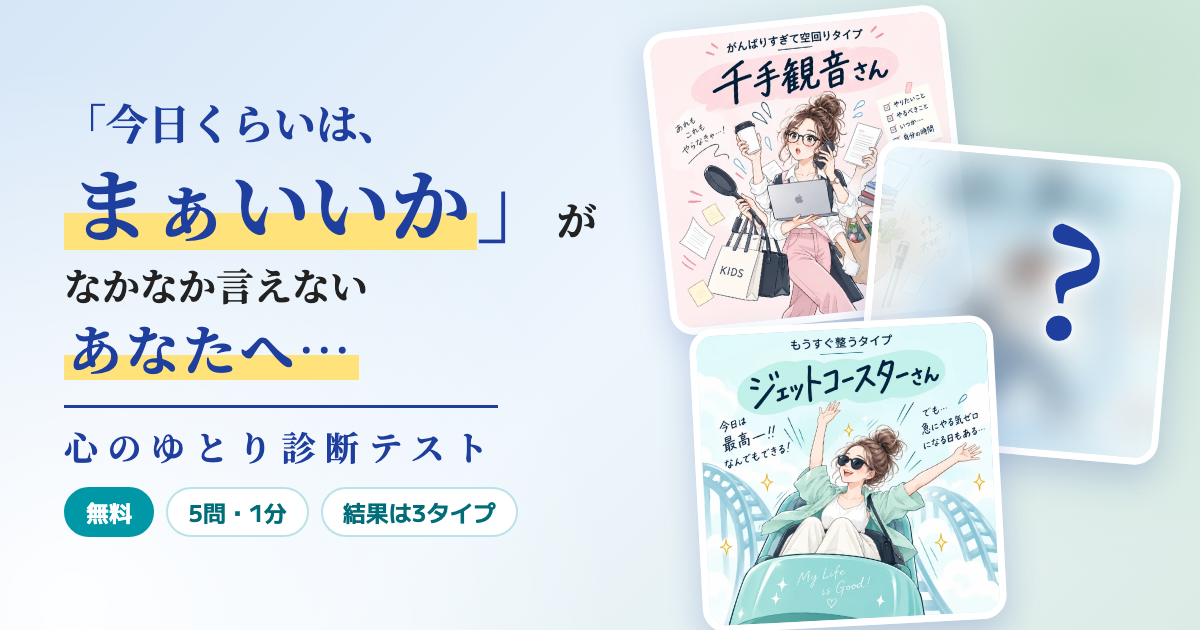
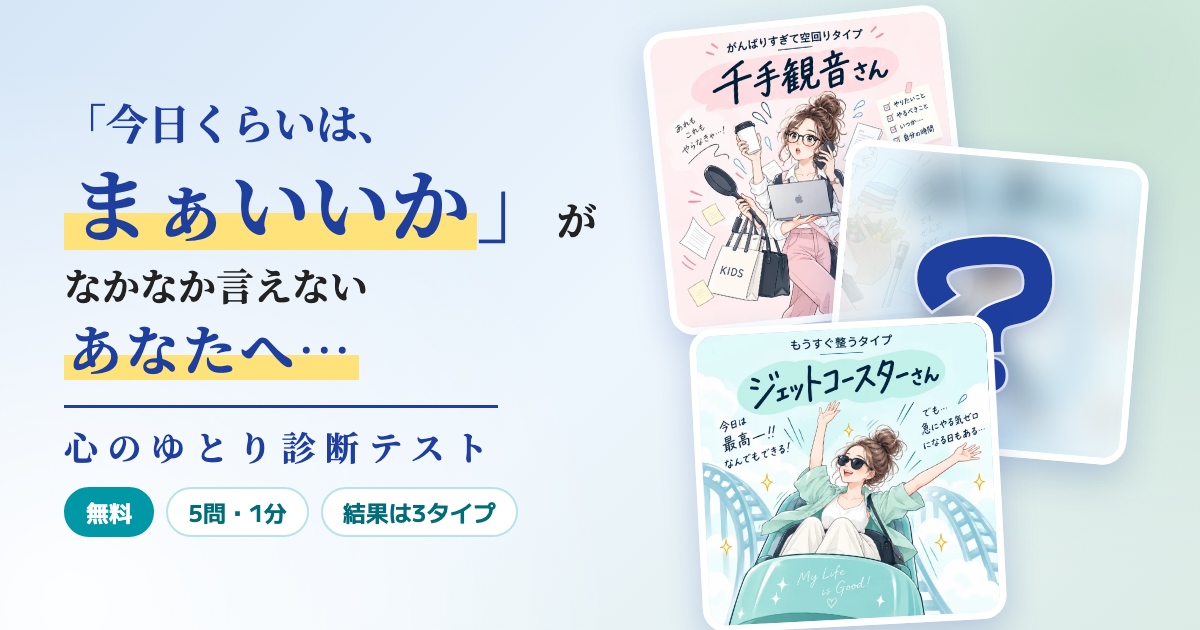
OGP画像：はてなカードをポップ体・重なり順（ジェットコースター→はてな→千手観音）に調整・v=4

Changed region(s): [[0.6783, 0.2111, 0.9867, 0.754]]

diff --git a/index.html b/index.html
@@ -9,7 +9,7 @@
 <meta property="og:title" content="心のゆとり診断テスト｜あまのさわ">
 <meta property="og:description" content="5問・1分。「今日くらいは、まぁいいか」がなかなか言えない人のための、心のゆとりタイプ診断。自分に合った余白の作り方がわかります。">
 <meta property="og:url" content="https://shindan.lpsub.site/">
-<meta property="og:image" content="https://shindan.lpsub.site/ogp.png?v=3">
+<meta property="og:image" content="https://shindan.lpsub.site/ogp.png?v=4">
 <meta property="og:image:width" content="1200">
 <meta property="og:image:height" content="630">
 <meta property="og:site_name" content="あまのさわ">
